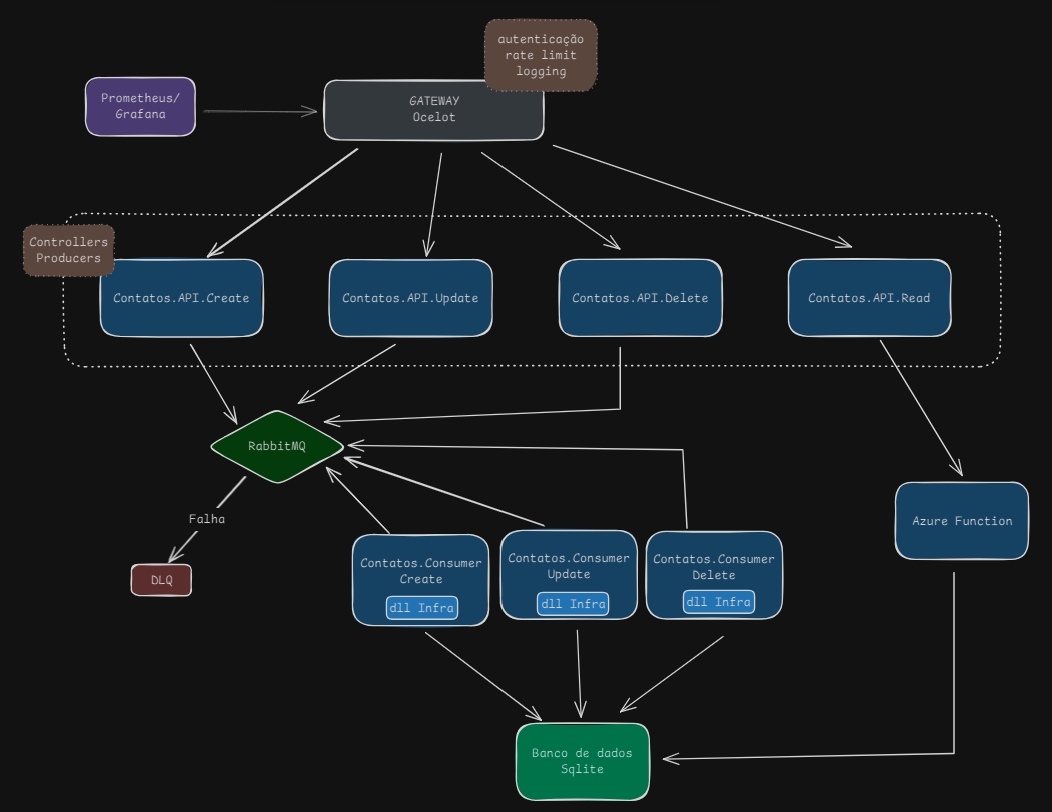
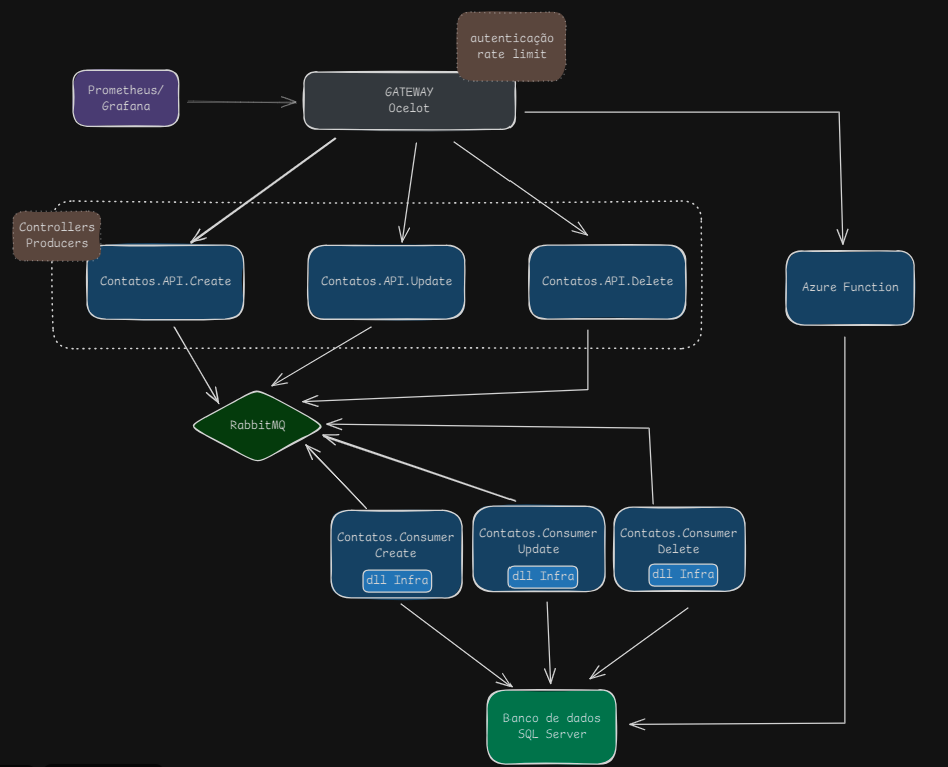
fix: suporte ao SQL Server

diff --git a/workers/ContatoDb.Core/ContatoDb.Core/InfrastructureExtensions.cs b/workers/ContatoDb.Core/ContatoDb.Core/InfrastructureExtensions.cs
@@ -8,7 +8,7 @@ namespace ContatoDb.Core;
 
 public static class InfrastructureExtensions
 {
-    public static void AddContatoDbCoreServices(this IServiceCollection services, string connString)
+    public static void UseContatoDBSqLite(this IServiceCollection services, string connString)
     {
         // Verifica se a string de conexão está presente        
         if (string.IsNullOrEmpty(connString))
@@ -19,6 +19,21 @@ public static class InfrastructureExtensions
         // Adiciona o contexto do banco de dados
         services.AddDbContext<AppDbContext>(options =>
             options.UseSqlite(connString));
+
+        services.AddScoped<IContatoRepository, ContatoRepository>();
+    }
+
+    public static void UseContatoDBSqlServer(this IServiceCollection services, string connString)
+    {
+        // Verifica se a string de conexão está presente        
+        if (string.IsNullOrEmpty(connString))
+        {
+            throw new ArgumentNullException("Connection string 'SQLiteConnection' is missing.");
+        }
+
+        // Adiciona o contexto do banco de dados
+        services.AddDbContext<AppDbContext>(options =>
+            options.UseSqlServer(connString));
 
         services.AddScoped<IContatoRepository, ContatoRepository>();
     }

diff --git a/workers/Microservice.Cadastro.AdicionarContato/Consumer/Program.cs b/workers/Microservice.Cadastro.AdicionarContato/Consumer/Program.cs
@@ -8,8 +8,10 @@ builder.Services.AddHostedService<Worker>();
 
 var configuration = builder.Configuration;
 
-var sqliteConnString = configuration.GetSection("SQLiteConnection").Value;
-builder.Services.AddContatoDbCoreServices(sqliteConnString);
+var dbconnstring = configuration.GetSection("DB_CONNSTRING").Value;
+
+if(dbconnstring != null)
+    builder.Services.UseContatoDBSqlServer(dbconnstring);
 
 
 var fila = configuration.GetSection("RabbitMQ")["QueueName"] ?? string.Empty;
